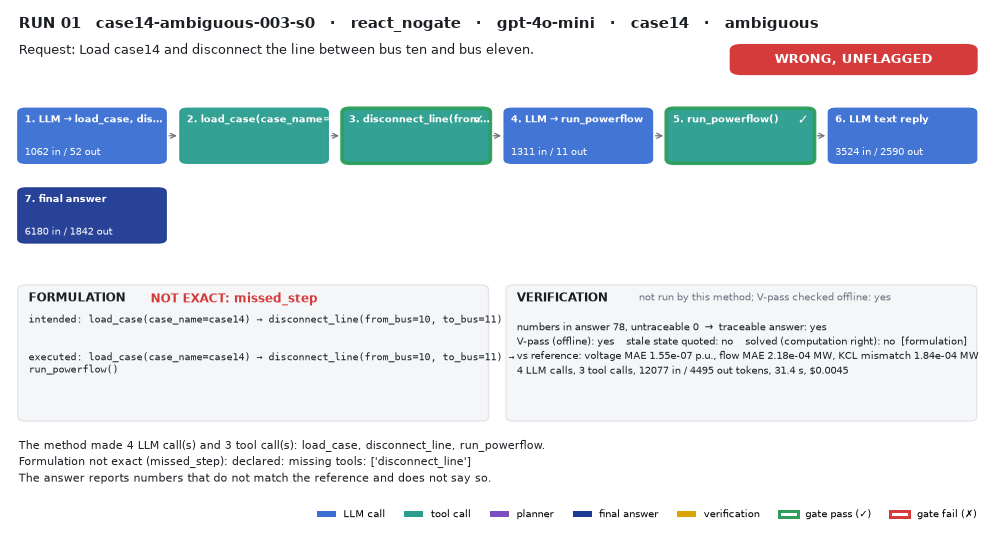
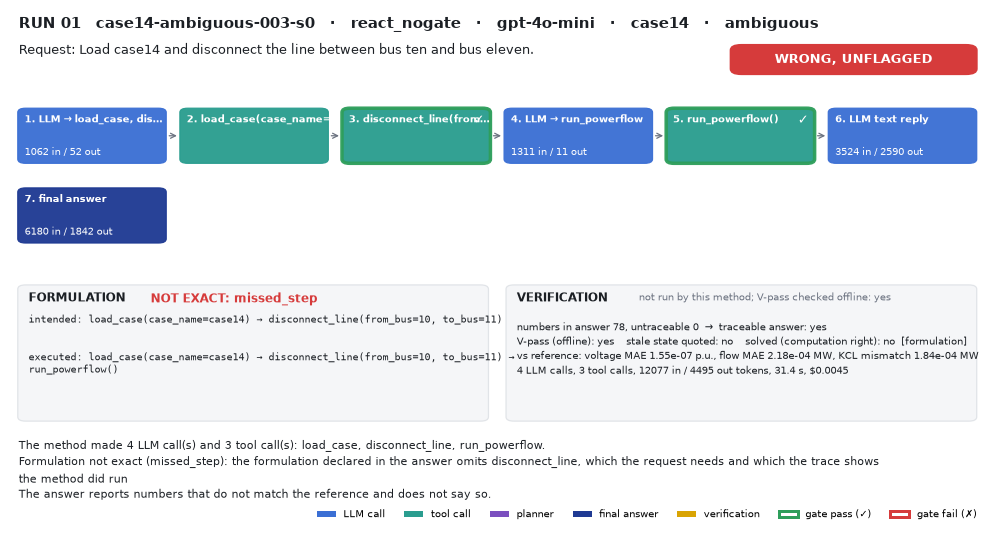
formulation detail in words: what the answer's formulation omits, and whether the trace shows it ran

Changed region(s): [[0.0, 0.8343, 0.8732, 0.9236]]

diff --git a/power-flow-agent/evaluation/common_eval.py b/power-flow-agent/evaluation/common_eval.py
@@ -106,6 +106,16 @@ def score_common(
     fm = bm.formulation_check(list(intended_calls or []), declared, preloaded_case=preloaded_case)
     exact = bool(fm.get("formulation_exact"))
     etype, detail = fm.get("formulation_error_type"), ("declared: " + str(fm.get("detail") or "")) if declared is not None else "no formulation field in the answer"
+    if declared is not None and etype == "missed_step":
+        # say it in words: the operations are in the answer's formulation field, not in what ran
+        import re as _re
+        m = _re.search(r"missing tools: \[(.*?)\]", str(fm.get("detail") or ""))
+        missing = [x.strip(" '\"") for x in m.group(1).split(",")] if m else []
+        alias = {"modify_load": "set_active_load / modify_load"}
+        ran = {str(c.get("tool")) for c in (executed_calls or [])}
+        names = [alias.get(x, x) for x in missing]
+        also_ran = any(x in ran or ("set_active_load" in ran and x == "modify_load") or ("set_load" in ran and x == "modify_load") for x in missing)
+        detail = f"the formulation declared in the answer omits {', '.join(names)}, which the request needs" + (" and which the trace shows the method did run" if also_ran else "")
     if exact and has_tools:
         ran = bm.formulation_check(bm.without_read_only(executed_calls), bm.without_read_only(declared), preloaded_case=preloaded_case)
         if not ran.get("formulation_exact"):

diff --git a/power-flow-agent/results/ieee14/2026-09-26/gpt-4o-mini/react_nogate/REPORT.md b/power-flow-agent/results/ieee14/2026-09-26/gpt-4o-mini/react_nogate/REPORT.md
@@ -1,6 +1,6 @@
 # react_nogate on IEEE 14-bus with gpt-4o-mini
 
-Generated 2026-09-26 22:10 by evaluation/postprocess.py from `report.rescored.json`. Runs: 20. Scored by the unified evaluator (v2): every verdict below is read from the answer JSON, the same way for every method.
+Generated 2026-09-27 16:20 by evaluation/postprocess.py from `report.rescored.json`. Runs: 20. Scored by the unified evaluator (v2): every verdict below is read from the answer JSON, the same way for every method.
 
 ## Run
 
@@ -82,8 +82,8 @@ Values the runner aggregated for the same rows (report.json scoreboard). They sh
 
 ## Wrong and unflagged (9)
 
-- `case14-ambiguous-003-s0` formulation missed_step; declared: missing tools: ['disconnect_line']  ([narrative](traces/01_case14-ambiguous-003-s0.narrative.txt), [transcript](traces/01_case14-ambiguous-003-s0.transcript.txt))
-- `case14-ambiguous-011-s0` formulation missed_step; declared: missing tools: ['modify_load']  ([narrative](traces/03_case14-ambiguous-011-s0.narrative.txt), [transcript](traces/03_case14-ambiguous-011-s0.transcript.txt))
+- `case14-ambiguous-003-s0` formulation missed_step; the formulation declared in the answer omits disconnect_line, which the request needs and which the trace shows the method did run  ([narrative](traces/01_case14-ambiguous-003-s0.narrative.txt), [transcript](traces/01_case14-ambiguous-003-s0.transcript.txt))
+- `case14-ambiguous-011-s0` formulation missed_step; the formulation declared in the answer omits set_active_load / modify_load, which the request needs and which the trace shows the method did run  ([narrative](traces/03_case14-ambiguous-011-s0.narrative.txt), [transcript](traces/03_case14-ambiguous-011-s0.transcript.txt))
 - `case14-multistep-018-s0` formulation exact; declared:  ([narrative](traces/10_case14-multistep-018-s0.narrative.txt), [transcript](traces/10_case14-multistep-018-s0.transcript.txt))
 - `case14-parameterized-001-s0` formulation exact; declared:  ([narrative](traces/11_case14-parameterized-001-s0.narrative.txt), [transcript](traces/11_case14-parameterized-001-s0.transcript.txt))
 - `case14-parameterized-009-s0` formulation exact; declared:  ([narrative](traces/13_case14-parameterized-009-s0.narrative.txt), [transcript](traces/13_case14-parameterized-009-s0.transcript.txt))
@@ -94,8 +94,8 @@ Values the runner aggregated for the same rows (report.json scoreboard). They sh
 
 ## Formulation not exact (2)
 
-- `case14-ambiguous-003-s0` missed_step: declared: missing tools: ['disconnect_line']  ([narrative](traces/01_case14-ambiguous-003-s0.narrative.txt), [transcript](traces/01_case14-ambiguous-003-s0.transcript.txt))
-- `case14-ambiguous-011-s0` missed_step: declared: missing tools: ['modify_load']  ([narrative](traces/03_case14-ambiguous-011-s0.narrative.txt), [transcript](traces/03_case14-ambiguous-011-s0.transcript.txt))
+- `case14-ambiguous-003-s0` missed_step: the formulation declared in the answer omits disconnect_line, which the request needs and which the trace shows the method did run  ([narrative](traces/01_case14-ambiguous-003-s0.narrative.txt), [transcript](traces/01_case14-ambiguous-003-s0.transcript.txt))
+- `case14-ambiguous-011-s0` missed_step: the formulation declared in the answer omits set_active_load / modify_load, which the request needs and which the trace shows the method did run  ([narrative](traces/03_case14-ambiguous-011-s0.narrative.txt), [transcript](traces/03_case14-ambiguous-011-s0.transcript.txt))
 
 ## Untraceable numbers in the answer (1)
 

diff --git a/power-flow-agent/results/ieee14/2026-09-26/no-llm/rule_based/REPORT.md b/power-flow-agent/results/ieee14/2026-09-26/no-llm/rule_based/REPORT.md
@@ -1,6 +1,6 @@
 # rule_based on IEEE 14-bus with no-llm
 
-Generated 2026-09-26 22:08 by evaluation/postprocess.py from `report.rescored.json`. Runs: 20. Scored by the unified evaluator (v2): every verdict below is read from the answer JSON, the same way for every method.
+Generated 2026-09-27 16:19 by evaluation/postprocess.py from `report.rescored.json`. Runs: 20. Scored by the unified evaluator (v2): every verdict below is read from the answer JSON, the same way for every method.
 
 ## Run
 
@@ -82,11 +82,11 @@ Values the runner aggregated for the same rows (report.json scoreboard). They sh
 
 ## Escalated (1)
 
-- `case14-ambiguous-011-s0` detected via cannot_answer, abstention_json, declared_inability, cannot_parse; formulation missed_step; declared: missing tools: ['load_case', 'modify_load']  ([narrative](traces/03_case14-ambiguous-011-s0.narrative.txt), [transcript](traces/03_case14-ambiguous-011-s0.transcript.txt))
+- `case14-ambiguous-011-s0` detected via cannot_answer, abstention_json, declared_inability, cannot_parse; formulation missed_step; the formulation declared in the answer omits load_case, set_active_load / modify_load, which the request needs  ([narrative](traces/03_case14-ambiguous-011-s0.narrative.txt), [transcript](traces/03_case14-ambiguous-011-s0.transcript.txt))
 
 ## Formulation not exact (1)
 
-- `case14-ambiguous-011-s0` missed_step: declared: missing tools: ['load_case', 'modify_load']  ([narrative](traces/03_case14-ambiguous-011-s0.narrative.txt), [transcript](traces/03_case14-ambiguous-011-s0.transcript.txt))
+- `case14-ambiguous-011-s0` missed_step: the formulation declared in the answer omits load_case, set_active_load / modify_load, which the request needs  ([narrative](traces/03_case14-ambiguous-011-s0.narrative.txt), [transcript](traces/03_case14-ambiguous-011-s0.transcript.txt))
 
 ## Untraceable numbers in the answer (1)
 

diff --git a/power-flow-agent/results/ieee14/2026-09-26/gpt-4o-mini/llm_only_structured/REPORT.md b/power-flow-agent/results/ieee14/2026-09-26/gpt-4o-mini/llm_only_structured/REPORT.md
@@ -1,6 +1,6 @@
 # llm_only:structured on IEEE 14-bus with gpt-4o-mini
 
-Generated 2026-09-26 22:09 by evaluation/postprocess.py from `report.rescored.json`. Runs: 20. Scored by the unified evaluator (v2): every verdict below is read from the answer JSON, the same way for every method.
+Generated 2026-09-27 16:19 by evaluation/postprocess.py from `report.rescored.json`. Runs: 20. Scored by the unified evaluator (v2): every verdict below is read from the answer JSON, the same way for every method.
 
 ## Run
 

diff --git a/power-flow-agent/results/ieee14/2026-09-26/gpt-4o-mini/plan_act_nogate/REPORT.md b/power-flow-agent/results/ieee14/2026-09-26/gpt-4o-mini/plan_act_nogate/REPORT.md
@@ -1,6 +1,6 @@
 # plan_act_nogate on IEEE 14-bus with gpt-4o-mini
 
-Generated 2026-09-26 22:10 by evaluation/postprocess.py from `report.rescored.json`. Runs: 20. Scored by the unified evaluator (v2): every verdict below is read from the answer JSON, the same way for every method.
+Generated 2026-09-27 16:20 by evaluation/postprocess.py from `report.rescored.json`. Runs: 20. Scored by the unified evaluator (v2): every verdict below is read from the answer JSON, the same way for every method.
 
 ## Run
 

diff --git a/power-flow-agent/results/ieee14/2026-09-26/gpt-4o-mini/llm_only_cot/REPORT.md b/power-flow-agent/results/ieee14/2026-09-26/gpt-4o-mini/llm_only_cot/REPORT.md
@@ -1,6 +1,6 @@
 # llm_only:cot on IEEE 14-bus with gpt-4o-mini
 
-Generated 2026-09-26 22:09 by evaluation/postprocess.py from `report.rescored.json`. Runs: 20. Scored by the unified evaluator (v2): every verdict below is read from the answer JSON, the same way for every method.
+Generated 2026-09-27 16:19 by evaluation/postprocess.py from `report.rescored.json`. Runs: 20. Scored by the unified evaluator (v2): every verdict below is read from the answer JSON, the same way for every method.
 
 ## Run
 

diff --git a/power-flow-agent/results/ieee14/2026-09-26/gpt-4o-mini/pfagent/REPORT.md b/power-flow-agent/results/ieee14/2026-09-26/gpt-4o-mini/pfagent/REPORT.md
@@ -1,6 +1,6 @@
 # pfagent on IEEE 14-bus with gpt-4o-mini
 
-Generated 2026-09-26 22:10 by evaluation/postprocess.py from `report.rescored.json`. Runs: 20. Scored by the unified evaluator (v2): every verdict below is read from the answer JSON, the same way for every method.
+Generated 2026-09-27 16:20 by evaluation/postprocess.py from `report.rescored.json`. Runs: 20. Scored by the unified evaluator (v2): every verdict below is read from the answer JSON, the same way for every method.
 
 ## Run
 

diff --git a/power-flow-agent/results/INDEX.md b/power-flow-agent/results/INDEX.md
@@ -1,6 +1,6 @@
 # Results index
 
-Generated 2026-09-26 22:10 by `run.py index`. One line per run directory, newest first. Counts are runs; Form. and Trace. are percentages. Open the folder for `REPORT.md`, `summary.csv` and `traces/`.
+Generated 2026-09-27 16:20 by `run.py index`. One line per run directory, newest first. Counts are runs; Form. and Trace. are percentages. Open the folder for `REPORT.md`, `summary.csv` and `traces/`.
 
 ## ieee14
 
